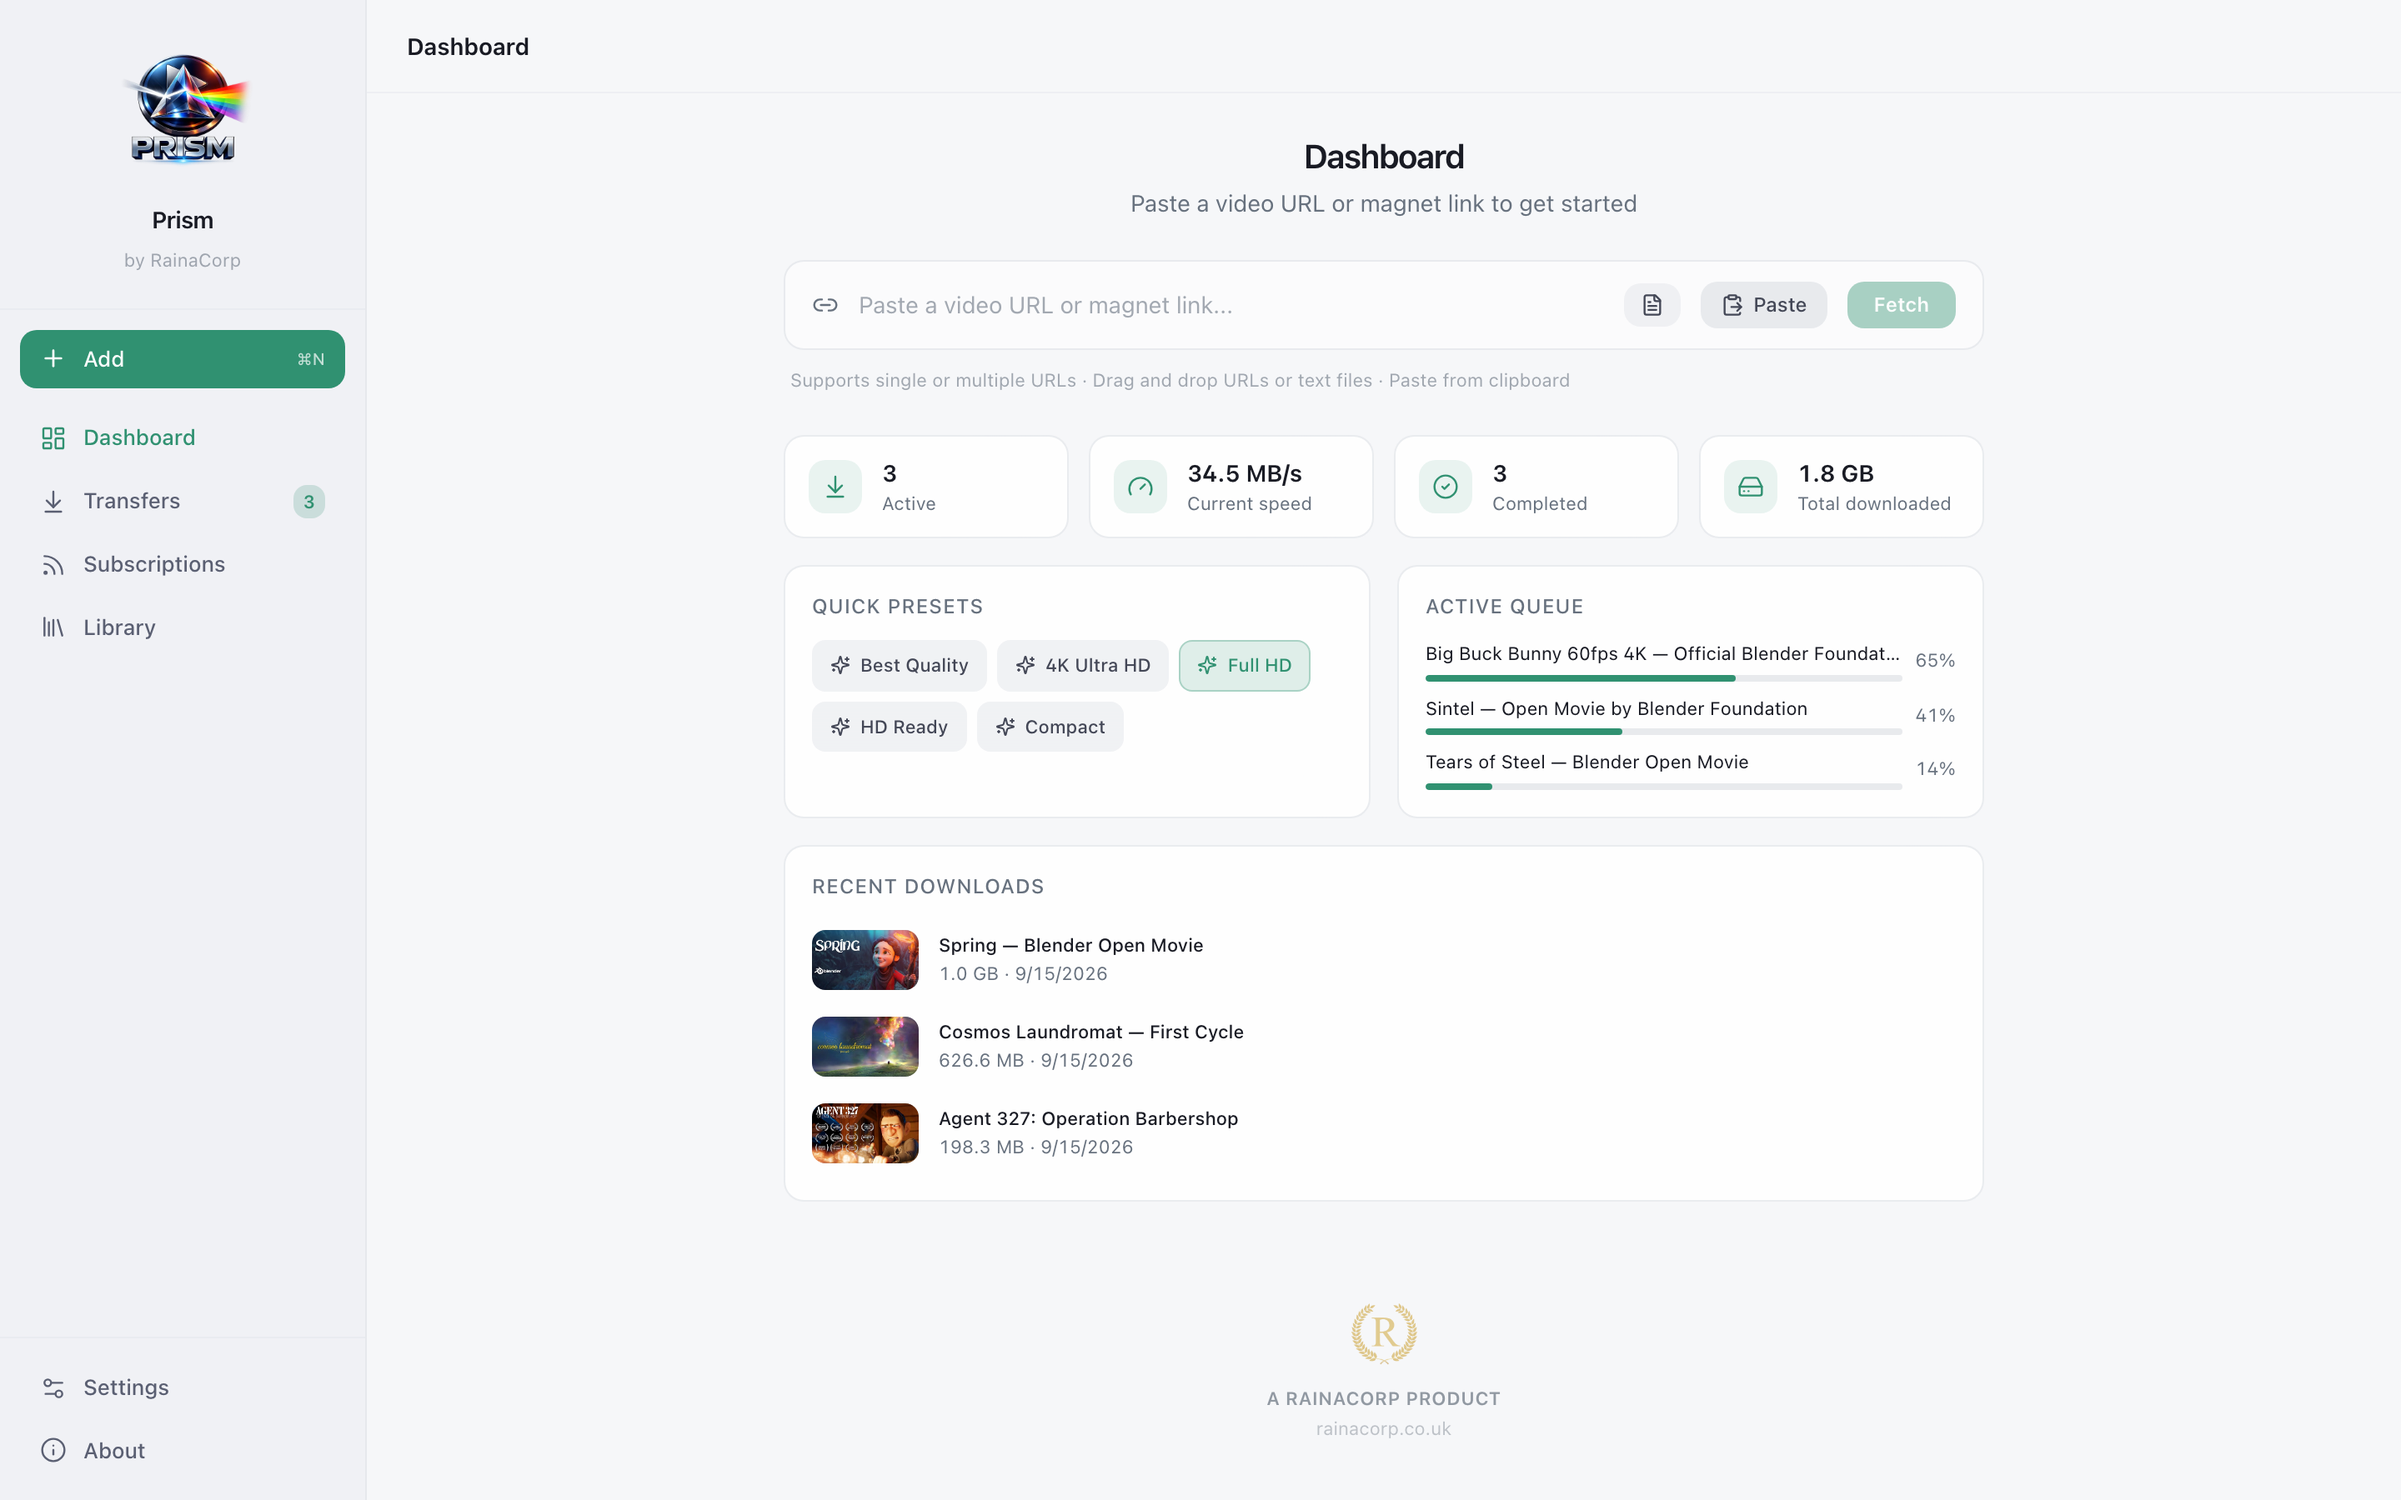
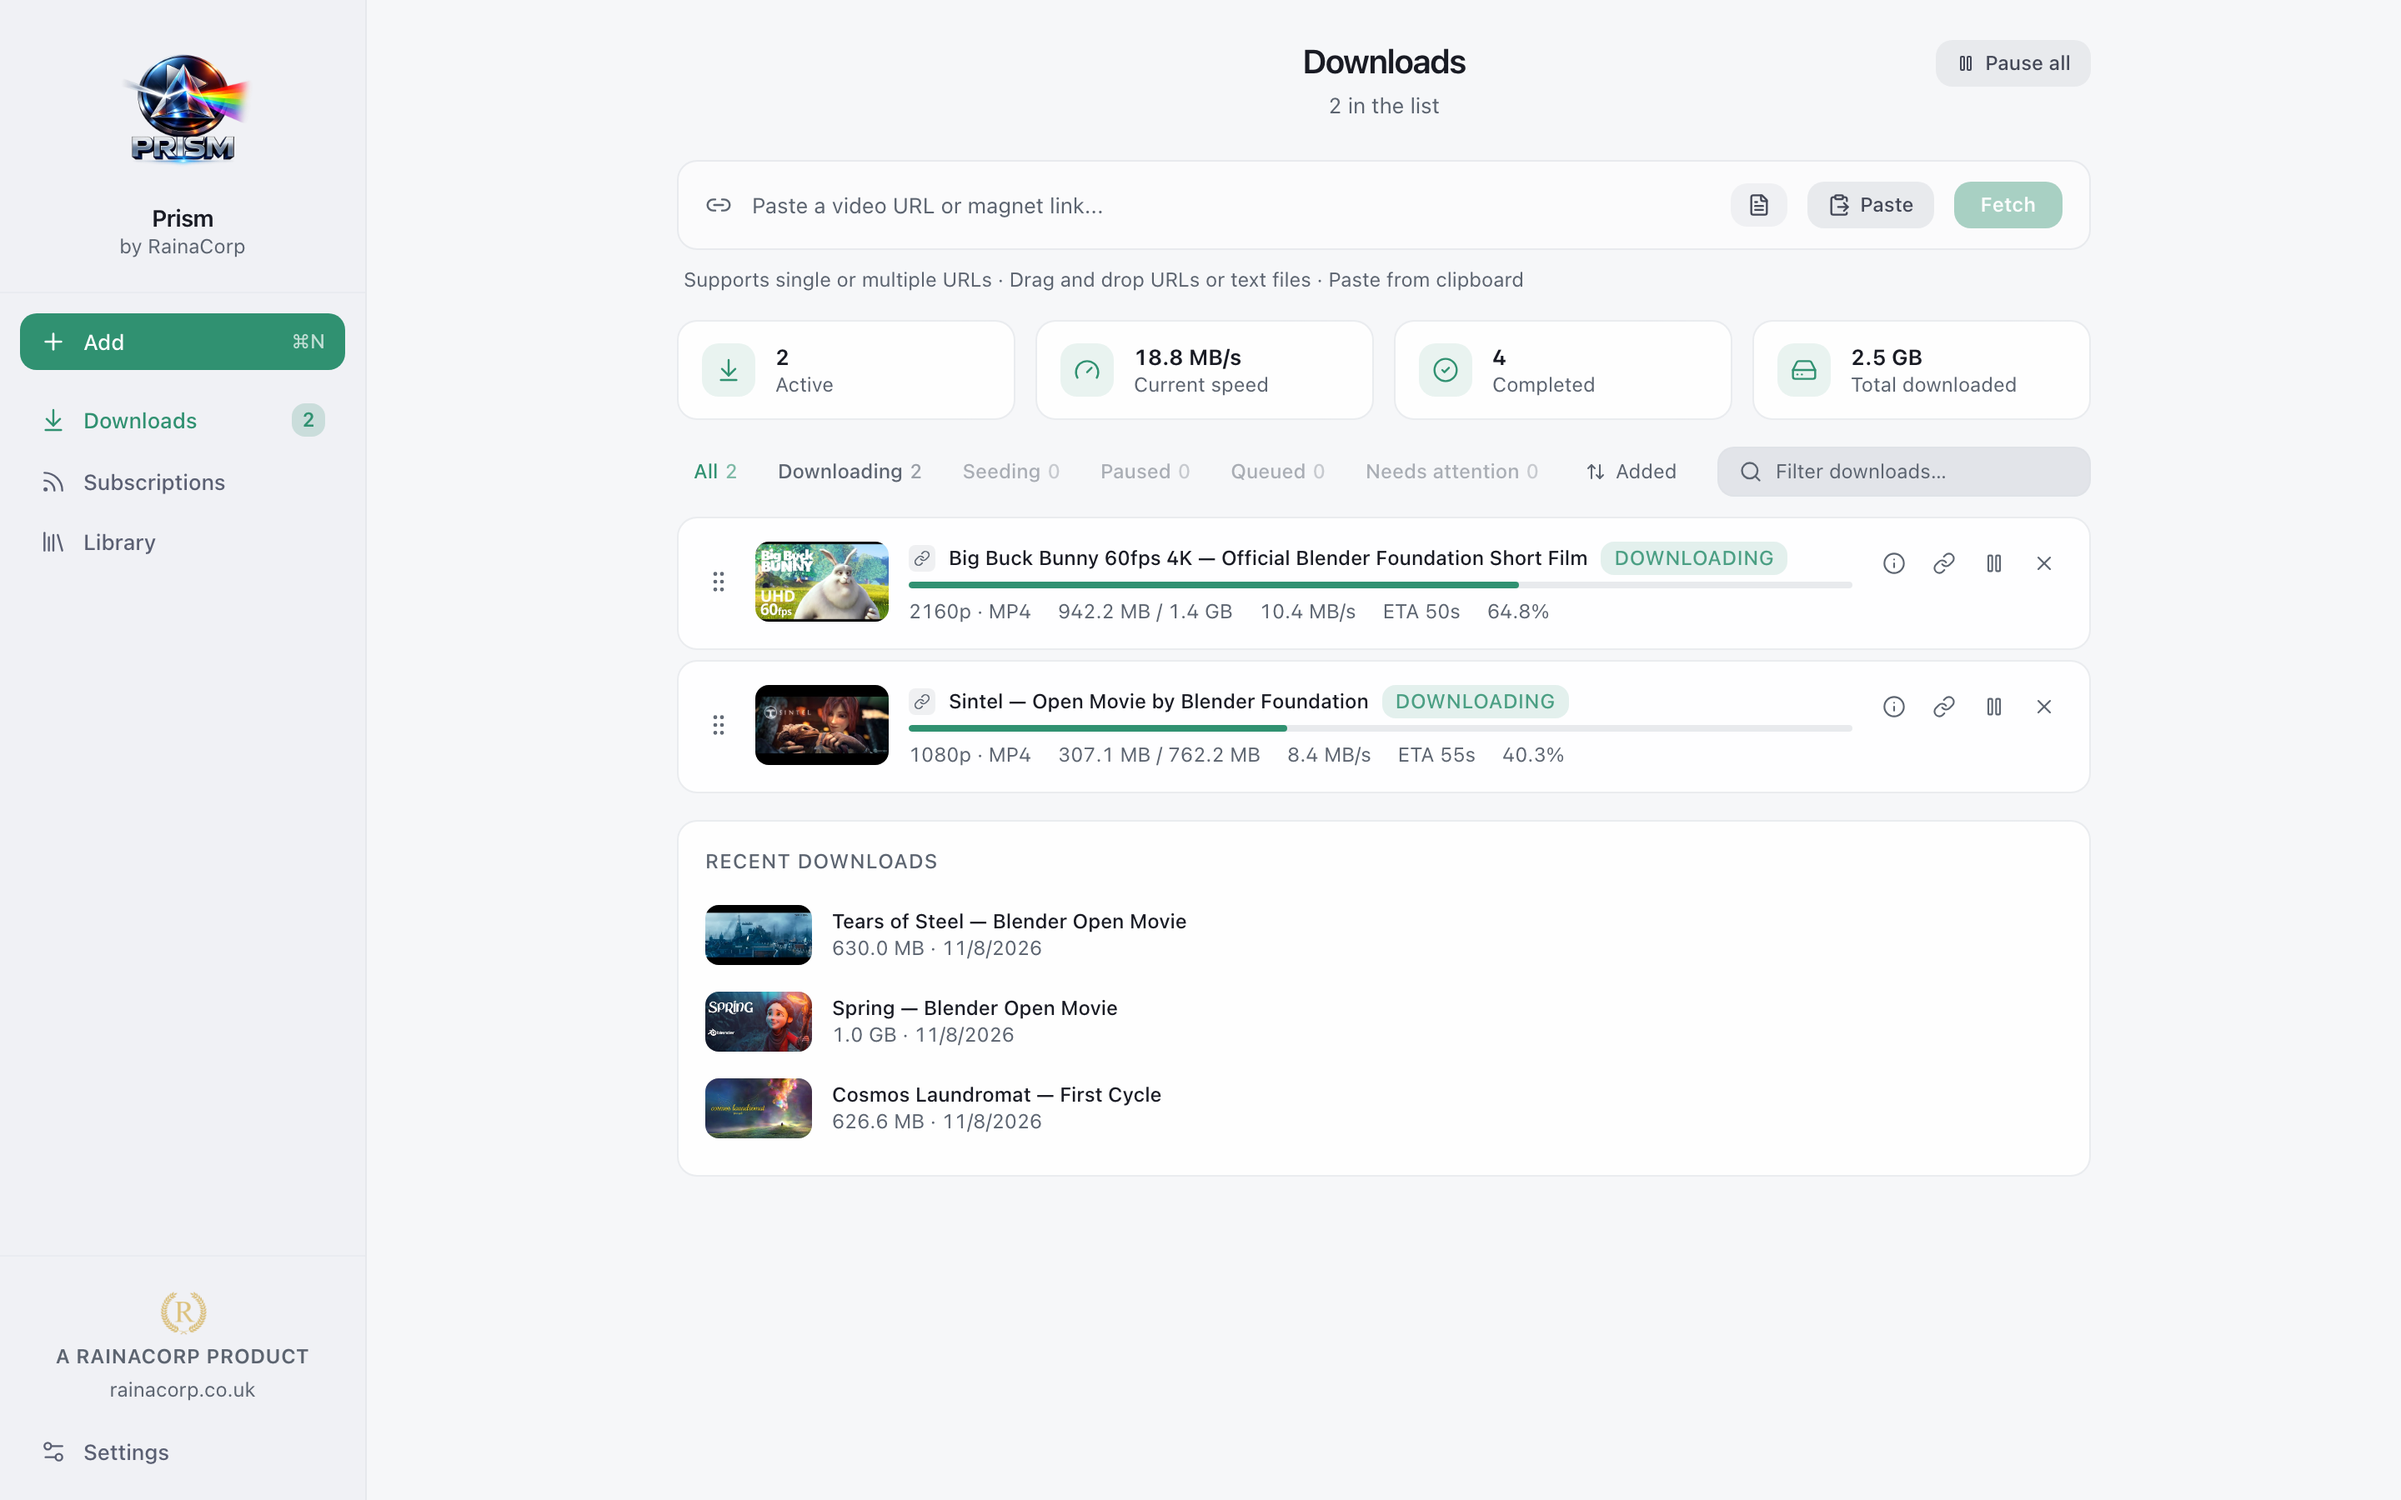
Docs: README and screenshots match the redesigned app
New Downloads and Library screenshots, current Settings paths, React 19,
and the features added in 2.6. The queue screenshot goes: that page now
redirects to Downloads.

diff --git a/README.md b/README.md
@@ -21,22 +21,22 @@
 ---
 
 <p align="center">
-  <img src="docs/screenshots/app-dark.png" alt="Prism dashboard with active downloads" width="800" />
+  <img src="docs/screenshots/app-dark.png" alt="Prism Downloads page with active and recent downloads" width="800" />
 </p>
 <p align="center">
-  <img src="docs/screenshots/queue-dark.png" alt="Prism download queue" width="800" />
+  <img src="docs/screenshots/library-dark.png" alt="Prism Library poster grid" width="800" />
 </p>
 
 ## Features
 
-- **Built-in player (macOS & Windows)** — Play any download inside Prism, or any audio or video file on your computer (⌘O, or drop it on the player), powered by embedded mpv: every codec and container, true HDR on HDR displays, multichannel audio, subtitle/audio track switching, resume where you left off. Plays files inside torrents while they're still downloading.
+- **Built-in player (macOS & Windows)** — Play any download inside Prism, or any audio or video file on your computer (⌘O, or drop it on the player), powered by embedded mpv: every codec and container, true HDR on HDR displays, multichannel audio, subtitle/audio track switching, resume where you left off. Previous/Next through a folder or playlist, frame step, screenshots and A-B loop. Plays files inside torrents while they're still downloading. On a Mac, open video and audio from Finder with Open With → Prism.
 - **Multi-format quality selection** — Choose between 4K, 1080p, 720p, or 480p — and the resolution you pick is what you get, with a warning if a site delivers less.
 - **BitTorrent downloads** — Paste a magnet link or `.torrent` file and download it in the same queue as your videos. Pick which files to grab, watch peers and share ratio live, and control seeding (stop at 100%, seed to ratio 1.0, or seed until you stop). UPnP port forwarding for peers behind a router; Quiet Hours throttles torrents too.
 - **One place to add anything** — The Add button (⌘N / ⌘L from any page) takes video links, magnets, `.torrent` files and lists of links; or drop any of them anywhere in the window. Links opened from your browser ask before Prism fetches anything.
 - **Direct downloads** — Plain file links (disk images, archives, documents) download over several connections, resume after a pause or a crash, and can be checked against a SHA-256.
 - **Convert** — Turn a finished download into MP4 (H.264 or HEVC), MP3, M4A or Opus, using your Mac's or PC's hardware encoder where there is one.
-- **Plays on your iPhone** — On a Mac, the few downloads QuickTime, iMessage and iOS can't open (VP9/AV1, Opus) are re-encoded to H.264/AAC automatically (Settings → Files).
-- **Download queue** — True pause/resume (picks up partial files where they left off), cancel, retry, drag-to-reorder, full keyboard control. Configurable concurrent downloads and speed limits.
+- **Plays on your iPhone** — On a Mac, the few downloads QuickTime, iMessage and iOS can't open (VP9/AV1, Opus) are re-encoded to H.264/AAC automatically (Settings → Downloads).
+- **Downloads page** — Add links, see your totals and recent downloads, and follow what's running, all on one page. True pause/resume (picks up partial files where they left off), cancel, retry, drag-to-reorder, full keyboard control. Configurable concurrent downloads and speed limits.
 - **Quiet hours** — Hold or throttle downloads during part of the day, with a banner saying until when; full speed the rest of the time.
 - **Self-updating engine** — Update the bundled yt-dlp from Settings when sites change, no app update needed.
 - **Batch downloads** — Paste multiple URLs at once or import entire playlists with per-video selection.
@@ -44,7 +44,7 @@
 - **Browser cookie support** — Use cookies from Safari, Chrome, Firefox, Edge, or Brave for sign-in-required and age-restricted videos.
 - **Rich media files** — Thumbnails, metadata, and chapter markers embedded in downloads.
 - **SponsorBlock** — Optionally mark sponsor segments as chapters or cut them out entirely, using crowd-sourced data.
-- **Library** — Searchable record of every download with one-click replay; stays fast with thousands of entries.
+- **Library** — A searchable poster grid of everything you've downloaded, with Play first and an Activity strip for your totals over time; stays fast with thousands of entries.
 - **Subscriptions** — Watch channels, playlists, and RSS/Atom feeds (podcasts, torrent feeds); new items are queued automatically on a configurable interval, with keyword rules.
 - **Clipboard auto-detect** — Copy a video URL, focus Prism, and get a one-click fetch prompt.
 - **Menu bar quick-add** — Tray icon with Paste & Download; drag a URL onto the window to fetch it.
@@ -81,7 +81,7 @@ Use the full name. Homebrew's own catalogue has a different app called
 `prism` (GraphPad Prism), and a bare `brew install --cask prism` or
 `brew upgrade --cask prism` installs that instead. To update:
 `brew upgrade --cask rajatraina747/prism/prism-downloader`, or
-**Settings → Updates** inside Prism.
+**Settings → General → Updates** inside Prism.
 
 Or get the latest release for your platform:
 
@@ -134,9 +134,9 @@ file picker. You can also just paste a magnet into the URL box any time.
 
 | Layer | Technology |
 |-------|-----------|
-| Frontend | React 18, TypeScript, Tailwind CSS, shadcn/ui |
+| Frontend | React 19, TypeScript, Tailwind CSS, shadcn/ui |
 | Desktop | Tauri v2 (Rust backend) |
-| Download Engines | yt-dlp + Deno (bundled sidecars) · librqbit (embedded BitTorrent) |
+| Download Engines | yt-dlp + Deno (bundled) · librqbit (embedded BitTorrent) |
 | Build | Vite 5 |
 
 ## Development
@@ -188,18 +188,18 @@ upstream releases, run `scripts/update-sidecars.sh`, review the lockfile diff, a
 
 Found a security issue? Please **don't open a public issue**. Report it privately:
 **[Report a vulnerability](https://github.com/rajatraina747/prism/security/advisories/new)**.
-Include the Prism version (Settings → About), your OS, what an attacker can do and what they
+Include the Prism version (Settings → Privacy & advanced → About & legal), your OS, what an attacker can do and what they
 need first (a web page, a crafted `.torrent`, local access…), and steps to reproduce. You'll
 hear back within a week. Only the latest release gets fixes; Prism updates itself from
-Settings → Updates. Problems in yt-dlp, librqbit, mpv or Tauri themselves belong upstream.
+Settings → General → Updates. Problems in yt-dlp, librqbit, mpv or Tauri themselves belong upstream.
 
 ## Project Structure
 
 ```
 src/
-├── components/     # React components (layout, dashboard, queue, media-details)
+├── components/     # React components (layout, add, queue, library, media-details)
 ├── hooks/          # Custom React hooks
-├── pages/          # Route page components (Dashboard, Queue, Subscriptions, History, Settings, …)
+├── pages/          # Route page components (Queue is the Downloads home, Library, Player, Subscriptions, Settings, …)
 ├── services/       # Service abstraction layer (mock + Tauri implementations)
 ├── stores/         # State: queue reducer + providers (Queue, History, Settings, Subscriptions)
 ├── types/          # TypeScript type definitions
@@ -207,7 +207,8 @@ src/
 
 src-tauri/
 ├── src/            # Rust backend (commands, download manager, engine updater)
-├── binaries/       # Bundled sidecars (yt-dlp, deno)
+├── binaries/       # Bundled Deno sidecar
+├── ytdlp/          # Bundled yt-dlp
 └── icons/          # App icons (macOS, Windows, iOS, Android)
 ```
 
@@ -226,7 +227,7 @@ As the LGPL requires, the corresponding source for the macOS libraries is publis
 binaries on the `media-toolchain-*` release pinned in `scripts/sidecars.lock`: every upstream
 tarball byte for byte, together with the script that patches and builds them. License texts ship
 inside the app (`resources/lib/licenses`, with `VERSIONS.txt`), and the full list is under
-Settings → Legal → Open Source Licenses.
+Settings → Privacy & advanced → About & legal → Open Source Licenses.
 
 ---
 

diff --git a/ROADMAP.md b/ROADMAP.md
@@ -208,7 +208,7 @@ next one starts.
 
 ### Features (later, roughly in order)
 
-- [ ] Free-space forecast on the Dashboard (queued and active remaining bytes
+- [ ] Free-space forecast on Downloads (queued and active remaining bytes
   against each destination's free space).
 - [ ] Library: "Re-download" and "Locate…" for missing entries. Locate goes
   through a Rust picker that records the new path in the ledger.
@@ -216,7 +216,7 @@ next one starts.
   priorities yet; the stream already prioritizes what it reads.
 - [ ] Copy magnet / source link from the Library row menu.
 - [ ] Subscriptions: a per-feed regex filter and a dry run.
-- [ ] Speed history chart (24h/7d) in Statistics.
+- [ ] Speed history chart (24h/7d) in the Library's Activity strip.
 - [ ] Capture for unsupported pages (a webview that sniffs media requests).
 - [ ] Safari Web Extension (free to build, needs Xcode).
 - [ ] Optional LAN web UI: off by default, token-guarded.
